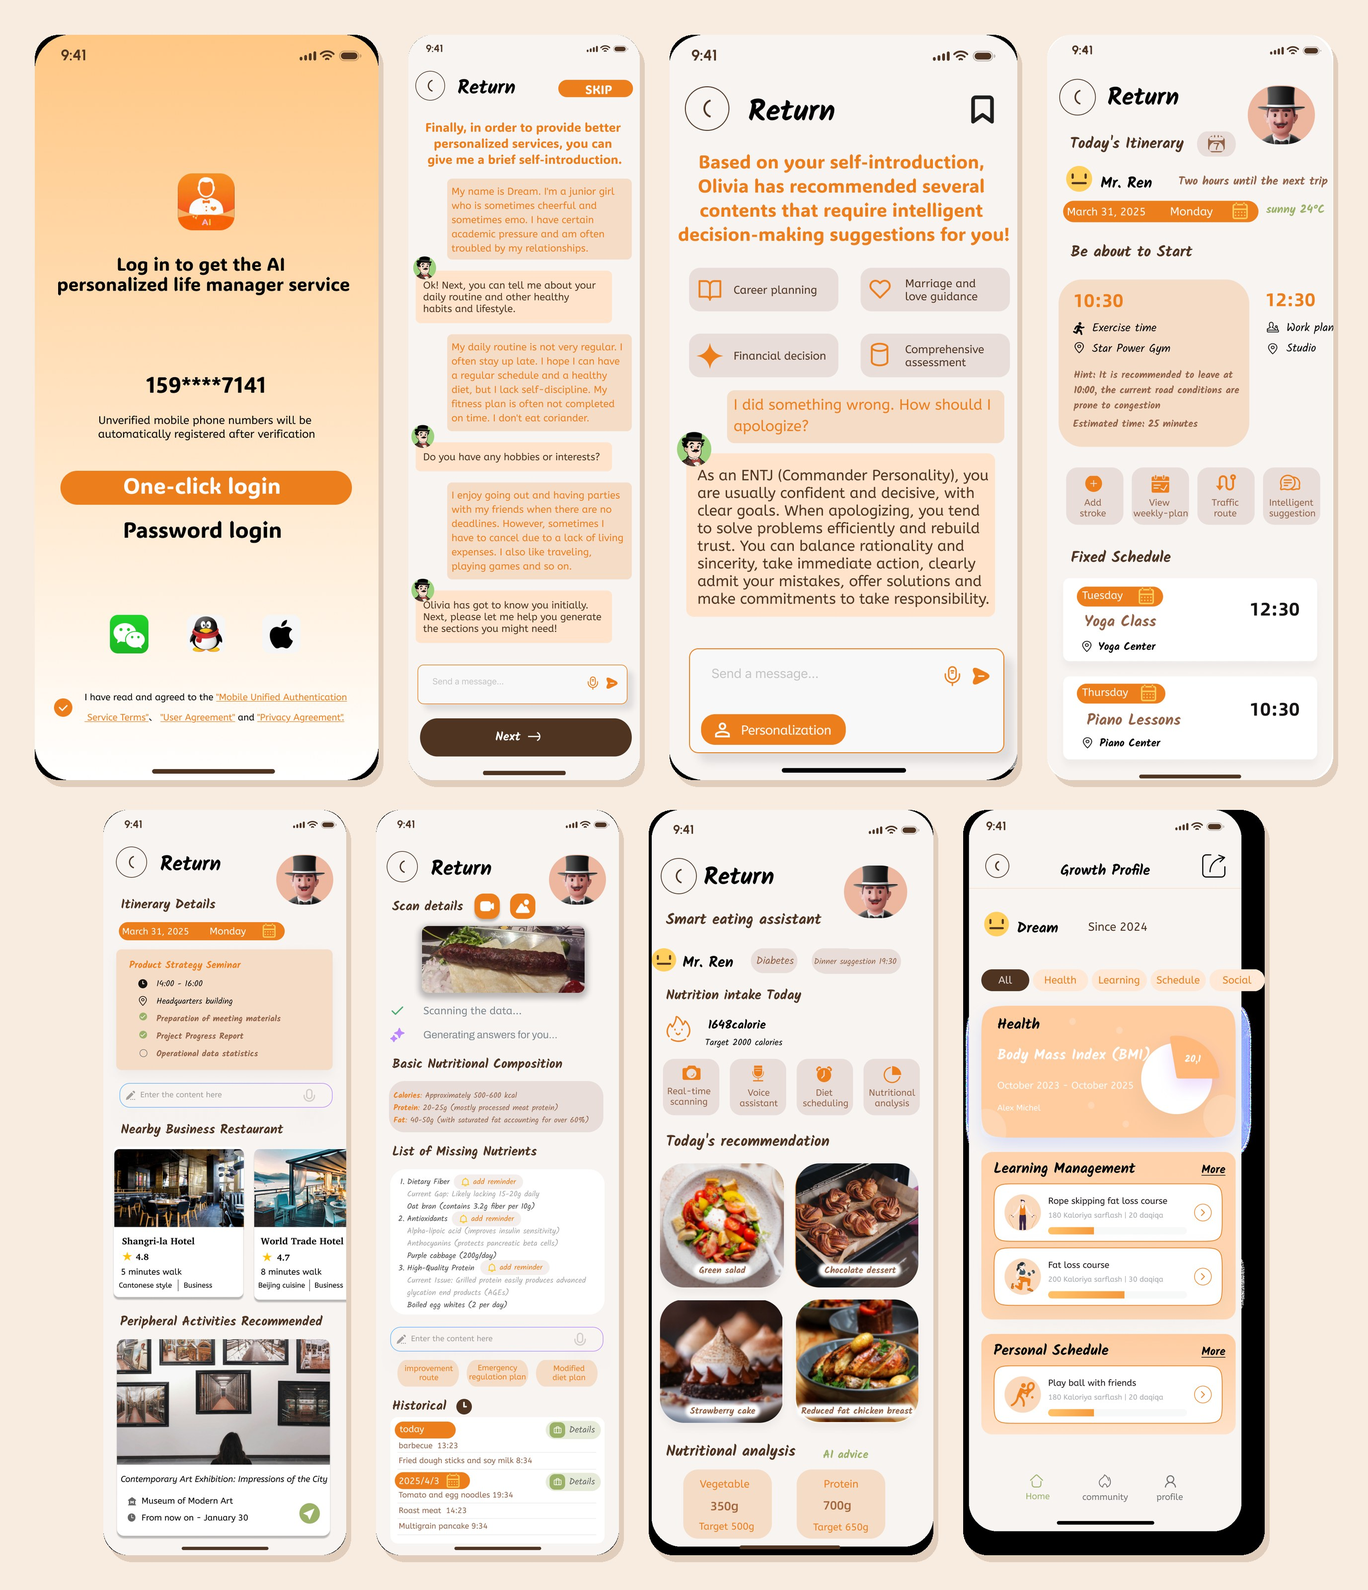
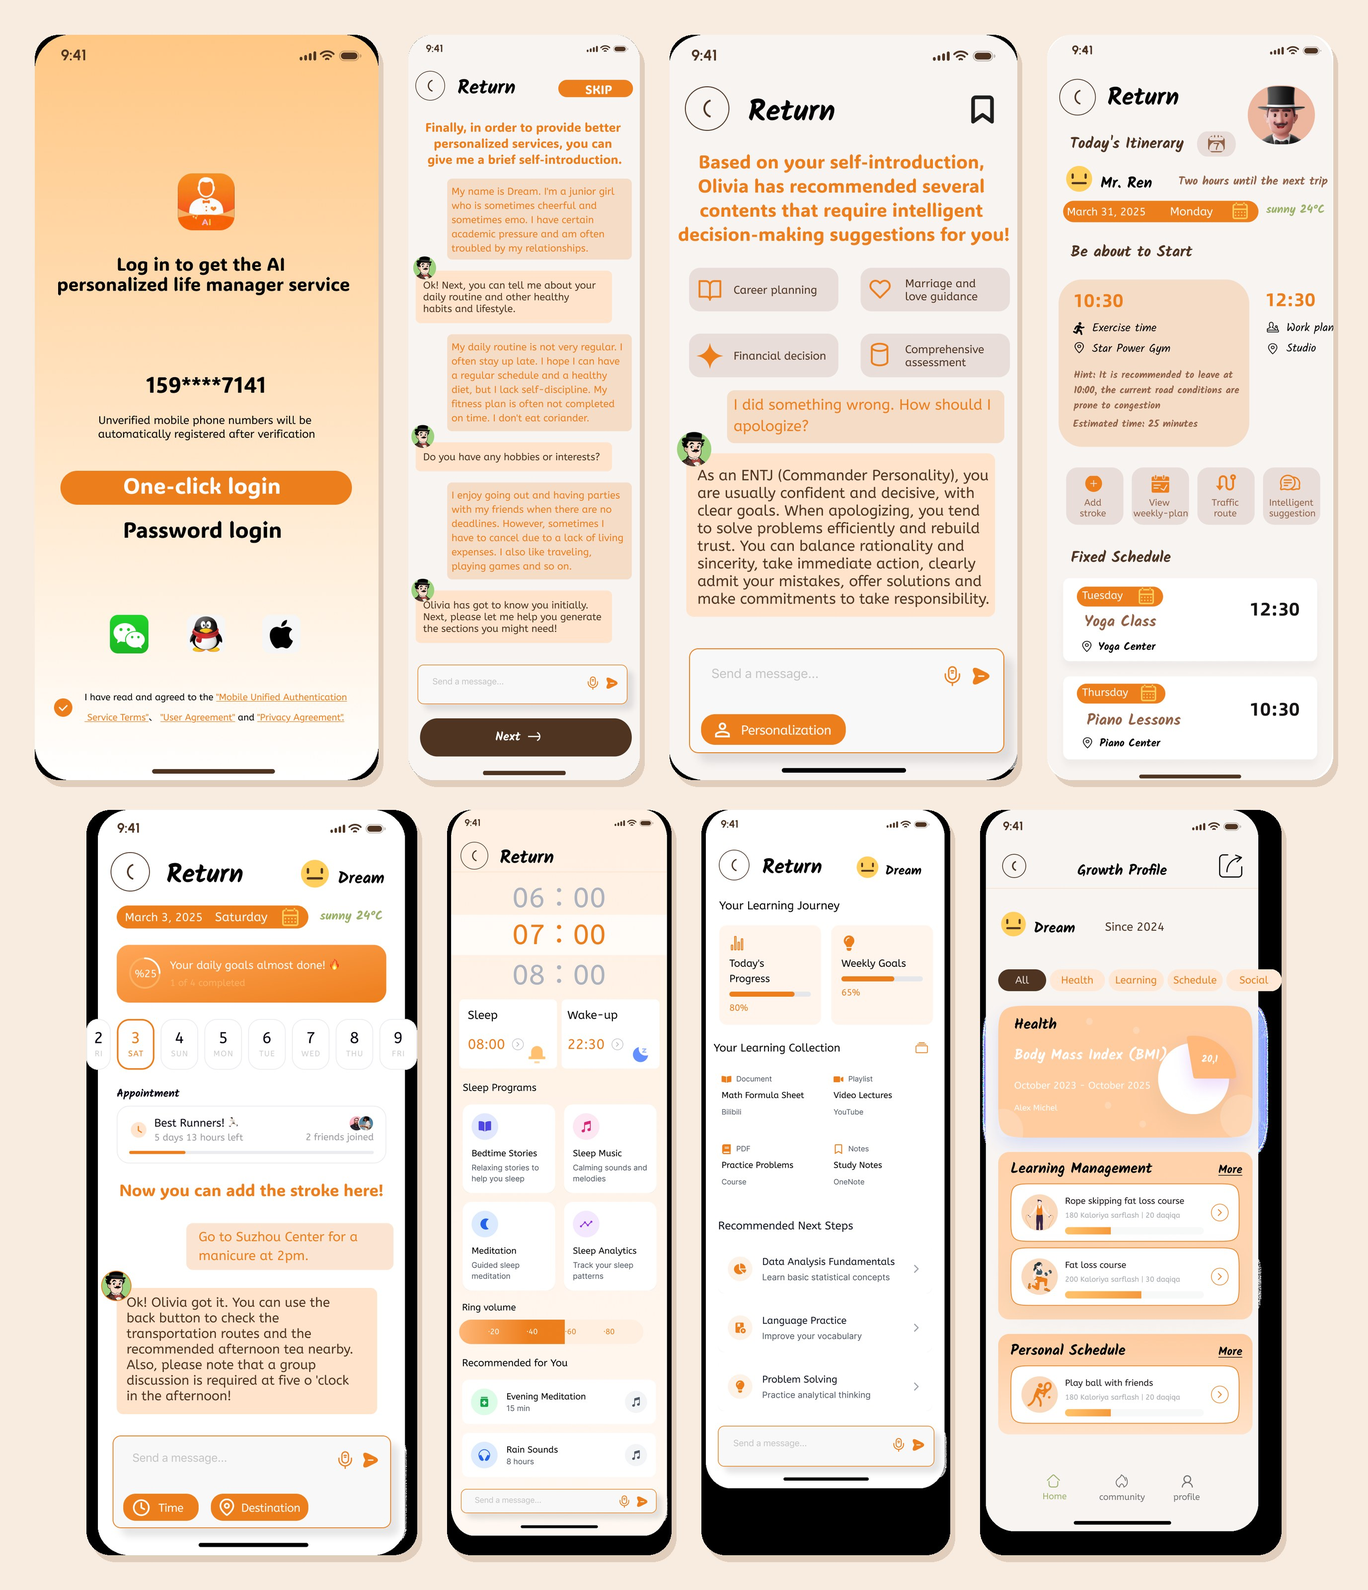
Restore removal of third-party castle, menu art and AIVA placeholder photos (keep other provenance notes)
Claude-Session: https://claude.ai/code/session_01UCmmacaxeJmgDjxYX7neR7

Changed region(s): [[0.0625, 0.5, 0.968, 1.0], [0.7807, 0.5312, 0.8431, 0.5625]]

diff --git a/projects/cpt205-opengl.html b/projects/cpt205-opengl.html
@@ -3,8 +3,8 @@
 <head>
 <meta charset="utf-8">
 <meta name="viewport" content="width=device-width,initial-scale=1">
-<meta name="description" content="Two real-time C++ OpenGL projects: an interactive 2D birthday card and a textured 3D castle scene.">
-<title>OpenGL Graphics: 2D Card &amp; 3D Castle — Mengxuan Shen</title>
+<meta name="description" content="Real-time C++ OpenGL graphics: an interactive 2D birthday card with day/night modes, animation and transforms.">
+<title>OpenGL Interactive Birthday Card — Mengxuan Shen</title>
 <link rel="stylesheet" href="../assets/project-study.css?v=11">
 <link rel="icon" href="../assets/favicon.svg" type="image/svg+xml">
 </head>
@@ -13,22 +13,22 @@
 <a class="back" href="../index.html#projects">← All projects</a>
 <header class="project-header">
 <p class="eyebrow">Computer graphics · C++ / OpenGL · Individual coursework</p>
-<h1>OpenGL Graphics: 2D Card &amp; 3D Castle</h1>
-<p class="lead">Two real-time graphics projects: an interactive 2D birthday card and a textured 3D castle scene.</p>
-<dl class="facts"><div><dt>Role</dt><dd>Individual</dd></div><div><dt>Tools</dt><dd>C++ · OpenGL · FreeGLUT</dd></div><div><dt>Topics</dt><dd>Transforms · Animation · Lighting</dd></div></dl>
+<h1>OpenGL Interactive Birthday Card</h1>
+<p class="lead">A real-time 2D scene built from geometric primitives, with animation, transformations and five kinds of user interaction.</p>
+<dl class="facts"><div><dt>Role</dt><dd>Individual</dd></div><div><dt>Tools</dt><dd>C++ · OpenGL · FreeGLUT</dd></div><div><dt>Topics</dt><dd>Primitives · Transforms · Animation</dd></div></dl>
 </header>
 <figure class="hero-media"><img src="../assets/covers/opengl-day-night-16x9.jpg" alt="Birthday card scene in day and night modes" loading="eager" fetchpriority="high"><figcaption>2D card in day and night modes.</figcaption></figure>
 <section class="overview" aria-label="Project summary">
-<article><h2>Challenge</h2><p>Build interactive scenes from basic primitives, then move to 3D meshes, lighting and camera control.</p></article>
-<article><h2>What I did</h2><p>Wrote reusable shape helpers and keyboard/mouse callbacks for the 2D card, then loaded OBJ meshes with textures, lighting and a skybox for the castle.</p></article>
-<article><h2>Outcome</h2><p>A card with five interactive behaviours and a separate navigable 3D castle scene.</p></article>
+<article><h2>Challenge</h2><p>Build a lively, interactive scene using only basic OpenGL primitives, without images or textures.</p></article>
+<article><h2>What I did</h2><p>Wrote reusable shape helpers (rectangles, circles, petals, sun rays), timer-driven animation and keyboard/mouse callbacks.</p></article>
+<article><h2>Outcome</h2><p>A card with day/night modes, a candle you can blow out, rising balloons, a movable butterfly and a birthday message.</p></article>
 </section>
-<section class="study-section"><h2>What the user can do</h2><div class="table-scroll"><table class="compact-table"><thead><tr><th scope="col">Input</th><th scope="col">Result</th></tr></thead><tbody><tr><th scope="row">Right click</th><td>Switch between day and night</td></tr><tr><th scope="row">Left click</th><td>Fade the candle flame (10 clicks to blow out)</td></tr><tr><th scope="row">W/A/S/D, R, Q/E</th><td>Move, rotate and scale the butterfly</td></tr><tr><th scope="row">Space</th><td>Release the balloons</td></tr><tr><th scope="row">Enter</th><td>Show the birthday message</td></tr></tbody></table></div></section><section class="study-section"><h2>3D castle</h2><figure class=""><img src="../assets/CPT205_Castle_Real_OBJ_Render.png" alt="Render of the castle OBJ model" loading="lazy"><figcaption>Render of the castle model geometry.</figcaption></figure><p class="source-note"><strong>Third-party 3D assets:</strong> the castle models, textures and skybox images are downloads whose original sources could not be traced. My work is the scene assembly, lighting, camera and rendering code; used for non-commercial coursework only.</p></section>
+<section class="study-section"><h2>What the user can do</h2><div class="table-scroll"><table class="compact-table"><thead><tr><th scope="col">Input</th><th scope="col">Result</th></tr></thead><tbody><tr><th scope="row">Right click</th><td>Switch between day and night</td></tr><tr><th scope="row">Left click</th><td>Fade the candle flame (10 clicks to blow out)</td></tr><tr><th scope="row">W/A/S/D, R, Q/E</th><td>Move, rotate and scale the butterfly</td></tr><tr><th scope="row">Space</th><td>Release the balloons</td></tr><tr><th scope="row">Enter</th><td>Show the birthday message</td></tr></tbody></table></div></section>
 <section id="resources" class="study-section">
 <h2>Reports &amp; source</h2>
 <div class="document-grid"><article class="document-card"><button class="document-cover" type="button" data-pdf="../assets/CPT205_OpenGL_Report.pdf" data-title="2D card report" aria-label="Preview 2D card report"><img loading="lazy" src="../assets/document-previews/45da6040d0a1.jpg" alt=""></button><div><h3>2D card report</h3><p>Primitives, interaction and animation.</p><button class="btn pdf-preview" type="button" data-pdf="../assets/CPT205_OpenGL_Report.pdf" data-title="2D card report">Preview PDF ↗</button></div></article></div>
-<div class="buttons"><a class="btn" href="https://github.com/Shine574269/mengxuan-cpt205-opengl" target="_blank" rel="noopener noreferrer">View repository on GitHub ↗</a><a class="btn" href="https://github.com/Shine574269/mengxuan-cpt205-opengl/raw/refs/heads/main/castle-original-source.zip" target="_blank" rel="noopener noreferrer">Download castle project</a><a class="btn" href="../assets/CPT205_Original_Coursework.zip">Download 2D card source</a></div>
-<p class="credits"><strong>Credits:</strong> The 2D card is entirely my own work. The 3D castle’s models, textures and skybox images are third-party downloads whose original sources could not be traced; the scene, lighting and camera code is my own. Libraries: FreeGLUT, GLM, SOIL and stb_image.</p>
+<div class="buttons"><a class="btn" href="https://github.com/Shine574269/mengxuan-cpt205-opengl/blob/main/birthday-card.cpp" target="_blank" rel="noopener noreferrer">View source on GitHub ↗</a><a class="btn" href="../assets/CPT205_Original_Coursework.zip">Download 2D card source</a></div>
+<p class="credits"><strong>Credits:</strong> Entirely my own work: every shape is drawn in code, with no external images or models. Uses the FreeGLUT library.</p>
 
 </section>
 <nav class="project-return" aria-label="Return to portfolio"><a class="btn return-button" href="../index.html#projects">← Back to all projects</a></nav>

diff --git a/projects/ground-air-dungeon-shooter.html b/projects/ground-air-dungeon-shooter.html
@@ -23,13 +23,12 @@
 <article><h2>What I did</h2><p>Programmed movement, dash, aiming and shooting, health, enemy spawning and pursuit, procedural obstacle placement, menus and a local leaderboard.</p></article>
 <article><h2>Outcome</h2><p>Level 1 teaches the controls; Level 2 doubles the enemies, adds ranged and melee types and more walls, so cover and pickups matter.</p></article>
 </section>
-<section class="study-section"><h2>Two-level difficulty ramp</h2><div class="table-scroll"><table class="compact-table"><thead><tr><th scope="col"></th><th scope="col">Level 1</th><th scope="col">Level 2</th></tr></thead><tbody><tr><th scope="row">Enemies</th><td>10 basic pursuers</td><td>20, incl. ranged aircraft and melee tanks</td></tr><tr><th scope="row">Walls</th><td>30</td><td>70</td></tr><tr><th scope="row">Player goal</th><td>Learn movement, aiming and dash</td><td>Use cover and pickups</td></tr></tbody></table></div></section><section class="study-section"><h2>Main menu</h2><figure><img src="../assets/covers/unity-menu.jpg" alt="Main menu with Start Game, Settings, Leaderboard and Quit Game buttons" loading="lazy"><figcaption>Main menu with settings and the local leaderboard.</figcaption></figure><p class="source-note"><strong>Third-party artwork:</strong> the menu background illustration was downloaded during development and its original creator could not be traced, so it is acknowledged here rather than claimed as my work. The menu layout, buttons and all game code are my own; used for non-commercial coursework only.</p></section>
-
+<section class="study-section"><h2>Two-level difficulty ramp</h2><div class="table-scroll"><table class="compact-table"><thead><tr><th scope="col"></th><th scope="col">Level 1</th><th scope="col">Level 2</th></tr></thead><tbody><tr><th scope="row">Enemies</th><td>10 basic pursuers</td><td>20, incl. ranged aircraft and melee tanks</td></tr><tr><th scope="row">Walls</th><td>30</td><td>70</td></tr><tr><th scope="row">Player goal</th><td>Learn movement, aiming and dash</td><td>Use cover and pickups</td></tr></tbody></table></div></section>
 <section id="resources" class="study-section">
 <h2>Reports &amp; source</h2>
 <div class="document-grid"><article class="document-card"><button class="document-cover" type="button" data-pdf="../assets/Ground_Air_Dungeon_Shooter_Design_Report.pdf" data-title="Game design report" aria-label="Preview Game design report"><img loading="lazy" src="../assets/document-previews/9e9dcf966741.jpg" alt=""></button><div><h3>Game design report</h3><p>Controls, enemy behaviour and level design.</p><button class="btn pdf-preview" type="button" data-pdf="../assets/Ground_Air_Dungeon_Shooter_Design_Report.pdf" data-title="Game design report">Preview PDF ↗</button></div></article></div>
 <div class="buttons"><a class="btn" href="https://github.com/Shine574269/mengxuan-unity-dungeon-shooter" target="_blank" rel="noopener noreferrer">View repository on GitHub ↗</a><a class="btn" href="https://github.com/Shine574269/mengxuan-unity-dungeon-shooter/raw/refs/heads/main/Original_Windows_Game.zip" target="_blank" rel="noopener noreferrer">Download Windows build</a><a class="btn" href="https://github.com/Shine574269/mengxuan-unity-dungeon-shooter/raw/refs/heads/main/Original_Unity_Project.zip" target="_blank" rel="noopener noreferrer">Download Unity project</a></div>
-<p class="credits"><strong>Credits:</strong> Sprites and tiles from Kenney’s <a href="https://kenney.nl/assets/top-down-shooter" target="_blank" rel="noopener noreferrer">Top-down Shooter</a>, <a href="https://kenney.nl/assets/top-down-tanks" target="_blank" rel="noopener noreferrer">Top-down Tanks</a> and <a href="https://kenney.nl/assets/pixel-shmup" target="_blank" rel="noopener noreferrer">Pixel Shmup</a> packs (CC0, <a href="https://kenney.nl" target="_blank" rel="noopener noreferrer">kenney.nl</a>). Game-over music by Daniel Birch. The main-menu background illustration is a third-party image whose source could not be traced. All gameplay code is my own; AI assistance used during development is declared in the design report.</p>
+<p class="credits"><strong>Credits:</strong> Sprites and tiles from Kenney’s <a href="https://kenney.nl/assets/top-down-shooter" target="_blank" rel="noopener noreferrer">Top-down Shooter</a>, <a href="https://kenney.nl/assets/top-down-tanks" target="_blank" rel="noopener noreferrer">Top-down Tanks</a> and <a href="https://kenney.nl/assets/pixel-shmup" target="_blank" rel="noopener noreferrer">Pixel Shmup</a> packs (CC0, <a href="https://kenney.nl" target="_blank" rel="noopener noreferrer">kenney.nl</a>). Game-over music by Daniel Birch. All gameplay code is my own; AI assistance used during development is declared in the design report.</p>
 </section>
 <nav class="project-return" aria-label="Return to portfolio"><a class="btn return-button" href="../index.html#projects">← Back to all projects</a></nav>
 <footer>© 2026 Mengxuan Shen · <a href="../index.html#contact">Contact</a> · <a href="../index.html#projects">All projects</a></footer>

diff --git a/projects/aiva-app-design.html b/projects/aiva-app-design.html
@@ -23,12 +23,12 @@
 <article><h2>What I did</h2><p>Turned the team concept into Figma screen flows, designed the poster framework and documented six rounds of interface revision.</p></article>
 <article><h2>Outcome</h2><p>Clearer onboarding led by a butler character, separate personalisation steps, concrete meal suggestions instead of nutrient lists, and one duplicate page removed.</p></article>
 </section>
-<section class="study-section"><h2>From sketch to prototype</h2><figure><img src="../assets/covers/aiva-wireframes.jpg" alt="Hand-drawn wireframes for meal suggestions, today’s schedule and decision support" loading="lazy"><figcaption>Early wireframes for the three core functions.</figcaption></figure><figure><img src="../assets/covers/aiva-screens-hd.jpg" style="max-height:none;width:100%" alt="Eight Figma screens: login, self-introduction chat, decision suggestions, today’s itinerary, itinerary details, food scan, smart eating assistant and growth profile" loading="lazy"><figcaption>Final Figma screens, from login and onboarding to scheduling, diet advice and the growth profile.</figcaption></figure><p class="source-note"><strong>Placeholder photos:</strong> the food, hotel and gallery photos inside these mock-ups are third-party stock images whose sources could not be traced, used only to show the layout. The interface design is my own.</p></section>
+<section class="study-section"><h2>From sketch to prototype</h2><figure><img src="../assets/covers/aiva-wireframes.jpg" alt="Hand-drawn wireframes for meal suggestions, today’s schedule and decision support" loading="lazy"><figcaption>Early wireframes for the three core functions.</figcaption></figure><figure><img src="../assets/covers/aiva-screens-hd.jpg" style="max-height:none;width:100%" alt="Eight Figma screens: login, self-introduction chat, decision suggestions, today’s itinerary, adding a plan, sleep programmes, learning journey and growth profile" loading="lazy"><figcaption>Final Figma screens: login and onboarding, decision support, scheduling, sleep, learning and the growth profile.</figcaption></figure></section>
 <section id="resources" class="study-section">
 <h2>Reports &amp; source</h2>
 <div class="document-grid"><article class="document-card"><button class="document-cover" type="button" data-pdf="../assets/AIVA_Project_Poster.pdf" data-title="Group concept poster" aria-label="Preview Group concept poster"><img loading="lazy" src="../assets/document-previews/50a8225fe19e.jpg" alt=""></button><div><h3>Group concept poster</h3><p>User needs, core features and assistant experience.</p><button class="btn pdf-preview" type="button" data-pdf="../assets/AIVA_Project_Poster.pdf" data-title="Group concept poster">Preview PDF ↗</button></div></article><article class="document-card"><button class="document-cover" type="button" data-pdf="../assets/AIVA_Design_Portfolio.pdf" data-title="Individual design portfolio" aria-label="Preview Individual design portfolio"><img loading="lazy" src="../assets/document-previews/e9c00d87f7ba.jpg" alt=""></button><div><h3>Individual design portfolio</h3><p>Interface development and iterations.</p><button class="btn pdf-preview" type="button" data-pdf="../assets/AIVA_Design_Portfolio.pdf" data-title="Individual design portfolio">Preview PDF ↗</button></div></article></div>
 <div class="buttons"><a class="btn" href="https://github.com/Shine574269/mengxuan-aiva-design" target="_blank" rel="noopener noreferrer">View repository on GitHub ↗</a><a class="btn" href="https://github.com/Shine574269/mengxuan-aiva-design/raw/refs/heads/main/AIVA_Individual_Presentation.pptx" target="_blank" rel="noopener noreferrer">Download presentation (PPTX)</a></div>
-<p class="credits"><strong>Credits:</strong> The AIVA concept and poster were created with my team. I edited the walkthrough video myself in 剪映 (CapCut); its stock clips come from the app’s built-in media library. Food and venue photos inside the mock-ups are third-party placeholder images, used for non-commercial coursework.</p>
+<p class="credits"><strong>Credits:</strong> The AIVA concept and poster were created with my team. I edited the walkthrough video myself in 剪映 (CapCut); its stock clips come from the app’s built-in media library. The screens shown on this page contain no third-party photos; some screens in the full video and reports use placeholder photos, used for non-commercial coursework.</p>
 </section>
 <nav class="project-return" aria-label="Return to portfolio"><a class="btn return-button" href="../index.html#projects">← Back to all projects</a></nav>
 <footer>© 2026 Mengxuan Shen · <a href="../index.html#contact">Contact</a> · <a href="../index.html#projects">All projects</a></footer>

diff --git a/index.html b/index.html
@@ -965,8 +965,8 @@
               <a class="project-art " href="projects/cpt205-opengl.html" tabindex="-1" aria-hidden="true"><img src="assets/covers/opengl-day-night-16x9.jpg" alt="" class="cover" loading="lazy" /></a>
               <div class="project-body">
                 <div class="number">COMPUTER GRAPHICS · 2024</div>
-                <h3>OpenGL Graphics: 2D Card &amp; 3D Castle</h3>
-                <p>Real-time C++ graphics: an interactive 2D card with day/night modes and transforms, plus a textured 3D castle scene.</p>
+                <h3>OpenGL Interactive Birthday Card</h3>
+                <p>Real-time C++ graphics drawn entirely from primitives: day/night modes, animation, transformations and mouse/keyboard interaction.</p>
                 <div class="techs"><span class="tech">C++</span><span class="tech">OpenGL</span><span class="tech">FreeGLUT</span></div>
                 <a class="project-link" href="projects/cpt205-opengl.html">View project →</a>
               </div>
@@ -999,8 +999,8 @@
           <li>Edge-offloading thesis builds on the <a href="https://github.com/qiyu3816/MTFNN-CO" target="_blank" rel="noopener noreferrer">MTFNN-CO</a> baseline by its original authors.</li>
           <li>TED Talk metadata © TED Conferences, LLC (ted.com). Lab 2 face images supplied as course material.</li>
           <li>Hospital Escape: team project of five; environment assets from the Unity Asset Store.</li>
-          <li>Unity game sprites and tiles: Kenney’s <a href="https://kenney.nl/assets/top-down-shooter" target="_blank" rel="noopener noreferrer">Top-down Shooter</a>, <a href="https://kenney.nl/assets/top-down-tanks" target="_blank" rel="noopener noreferrer">Top-down Tanks</a> and <a href="https://kenney.nl/assets/pixel-shmup" target="_blank" rel="noopener noreferrer">Pixel Shmup</a> packs (CC0). Game-over music by Daniel Birch. The game’s main-menu background illustration is a third-party image whose source could not be traced.</li>
-          <li>3D castle models, textures and skybox are third-party downloads whose sources could not be traced; the rendering code is my own. Stock clips in the AIVA video come from the 剪映 (CapCut) built-in library; placeholder photos inside the AIVA mock-ups are third-party images.</li>
+          <li>Unity game sprites and tiles: Kenney’s <a href="https://kenney.nl/assets/top-down-shooter" target="_blank" rel="noopener noreferrer">Top-down Shooter</a>, <a href="https://kenney.nl/assets/top-down-tanks" target="_blank" rel="noopener noreferrer">Top-down Tanks</a> and <a href="https://kenney.nl/assets/pixel-shmup" target="_blank" rel="noopener noreferrer">Pixel Shmup</a> packs (CC0). Game-over music by Daniel Birch.</li>
+          <li>Stock clips in the AIVA video come from the 剪映 (CapCut) built-in library; some AIVA mock-ups in the video and reports use placeholder photos.</li>
         </ul>
       </section>
     </main>

diff --git a/README.md b/README.md
@@ -23,7 +23,7 @@ Personal portfolio of Mengxuan Shen, MSc Robotics student at the University of M
 | [Hospital Escape (3D escape room)](https://shine574269.github.io/projects/hospital-escape.html) | Unity 3D, UI | [report](assets/CPT306_Hospital_Escape_Report_Public.pdf) |
 | [Ground-Air Dungeon Shooter](https://shine574269.github.io/projects/ground-air-dungeon-shooter.html) | Unity, C# | [repo](https://github.com/Shine574269/mengxuan-unity-dungeon-shooter) |
 | [AIVA — AI life steward app](https://shine574269.github.io/projects/aiva-app-design.html) | Interaction design | [repo](https://github.com/Shine574269/mengxuan-aiva-design) |
-| [OpenGL graphics](https://shine574269.github.io/projects/cpt205-opengl.html) | C++, OpenGL | [repo](https://github.com/Shine574269/mengxuan-cpt205-opengl) |
+| [OpenGL interactive birthday card](https://shine574269.github.io/projects/cpt205-opengl.html) | C++, OpenGL | [source](https://github.com/Shine574269/mengxuan-cpt205-opengl/blob/main/birthday-card.cpp) |
 
 ## About this site
 
